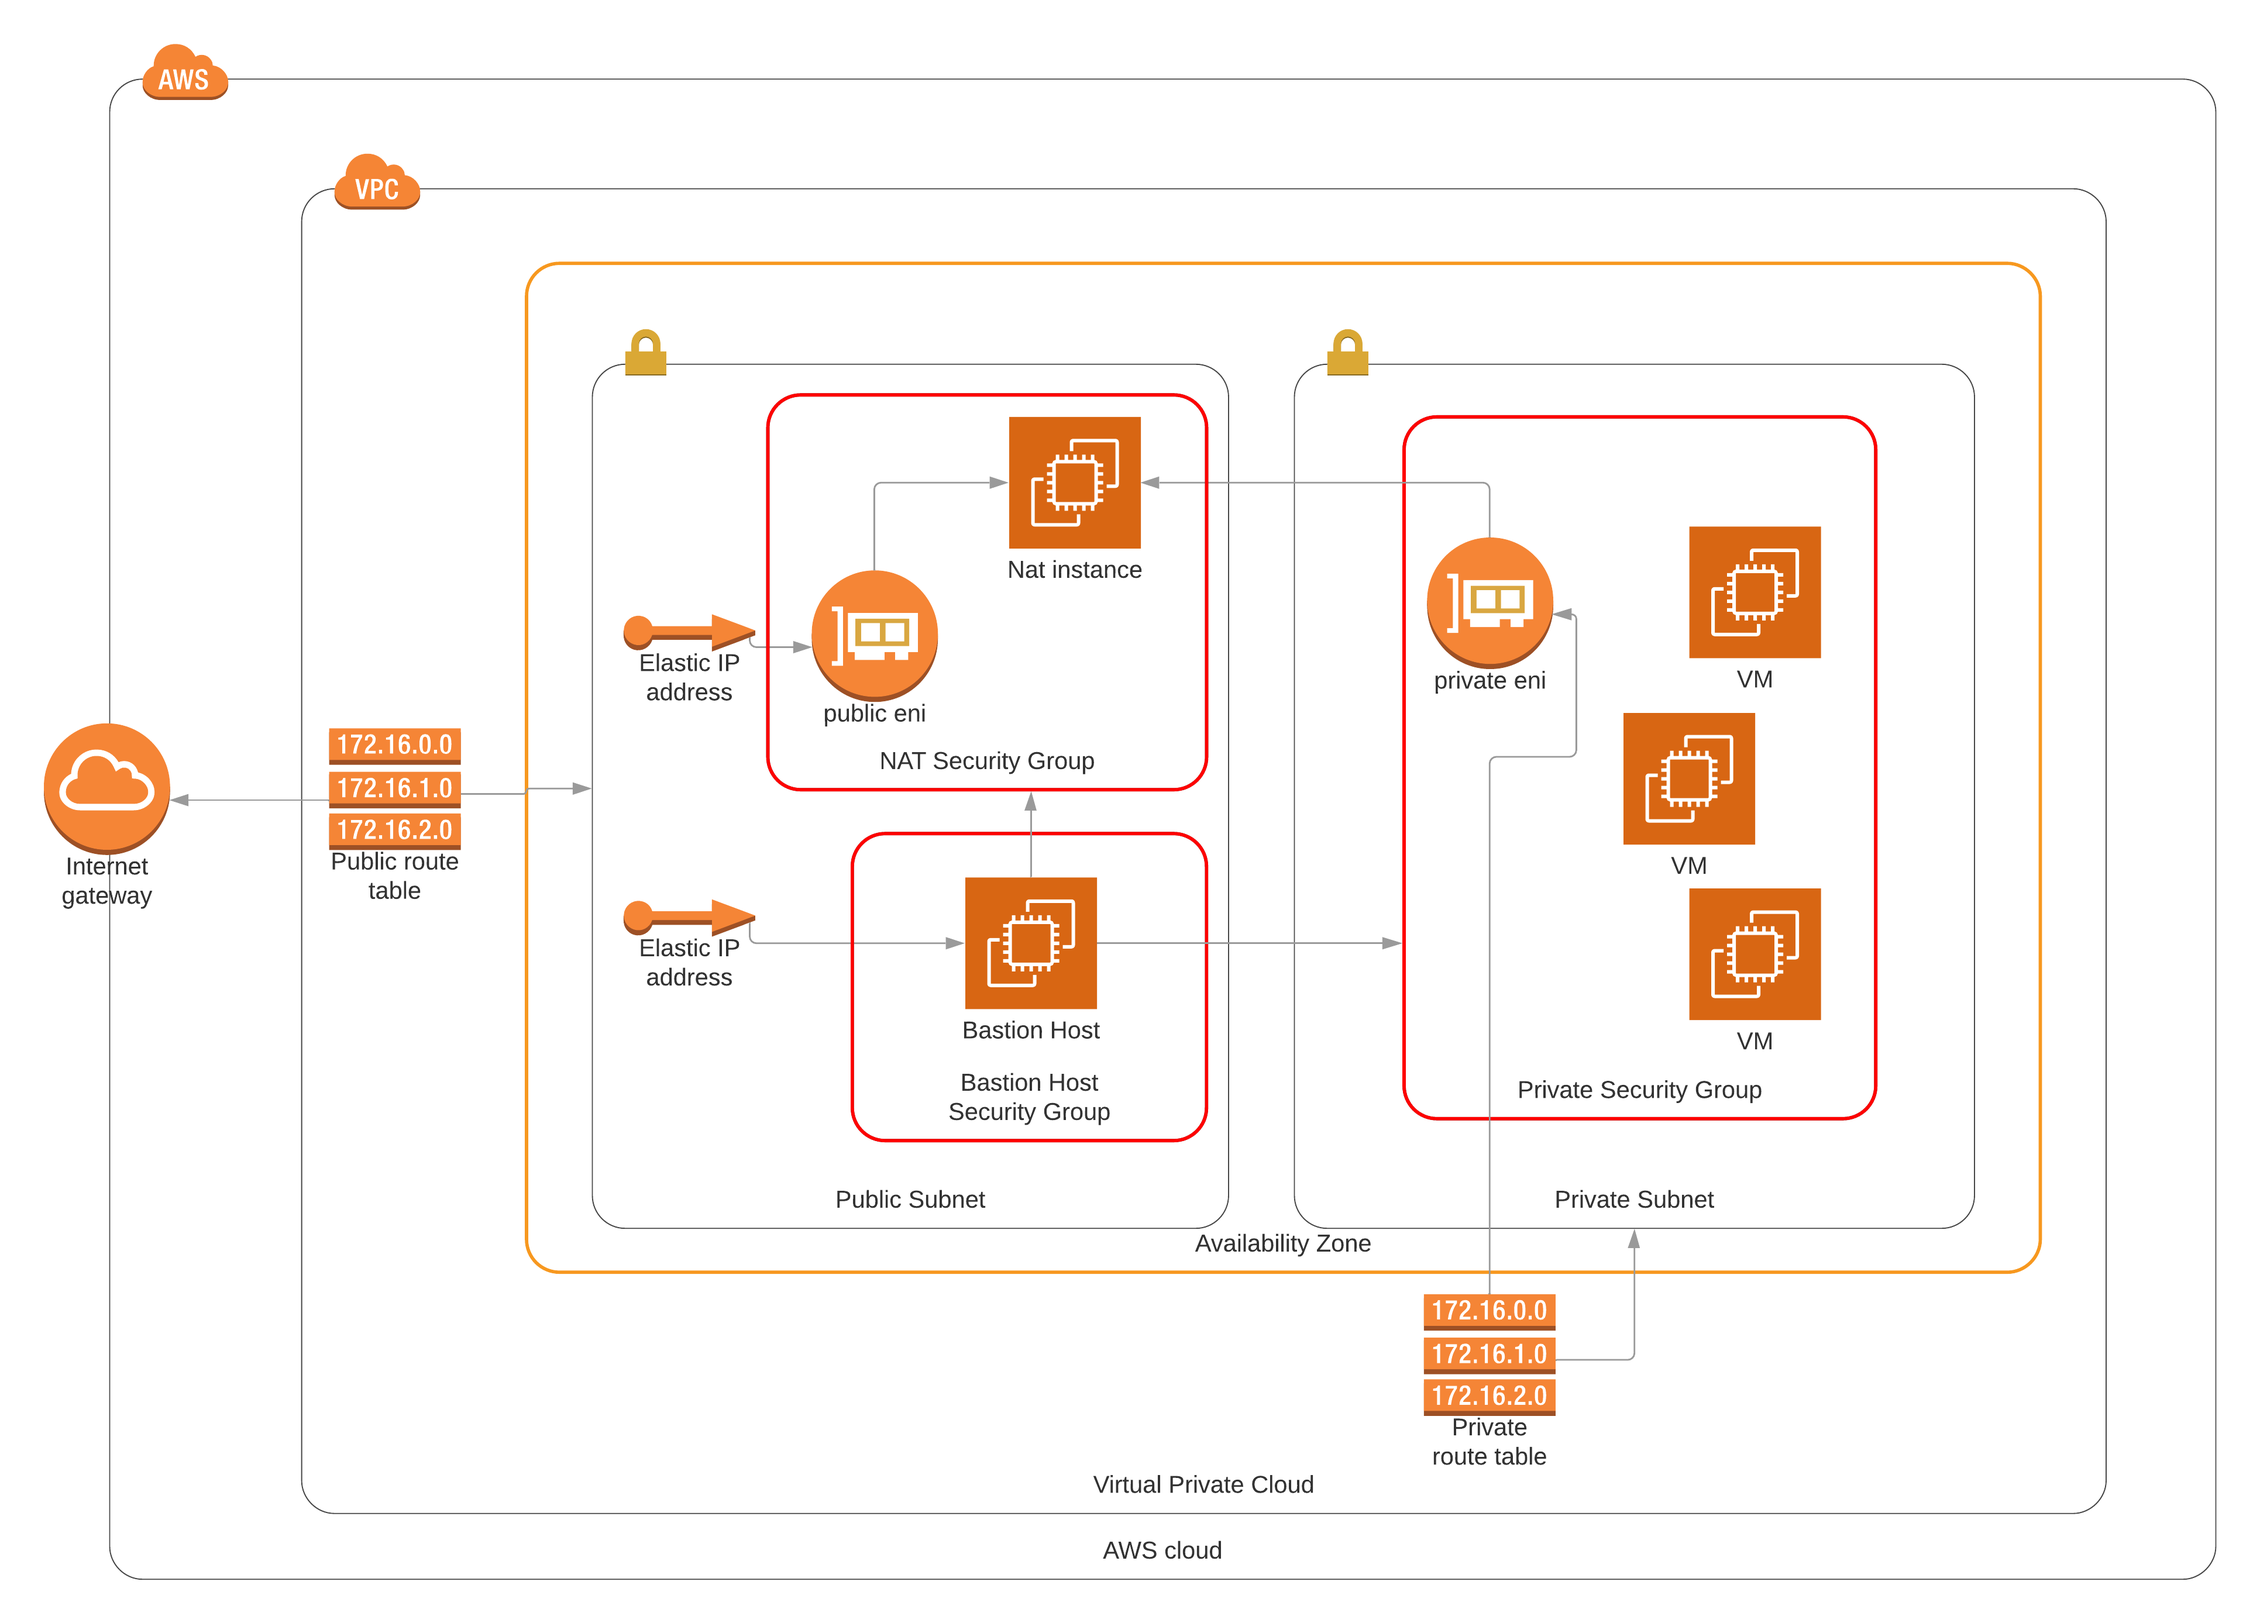
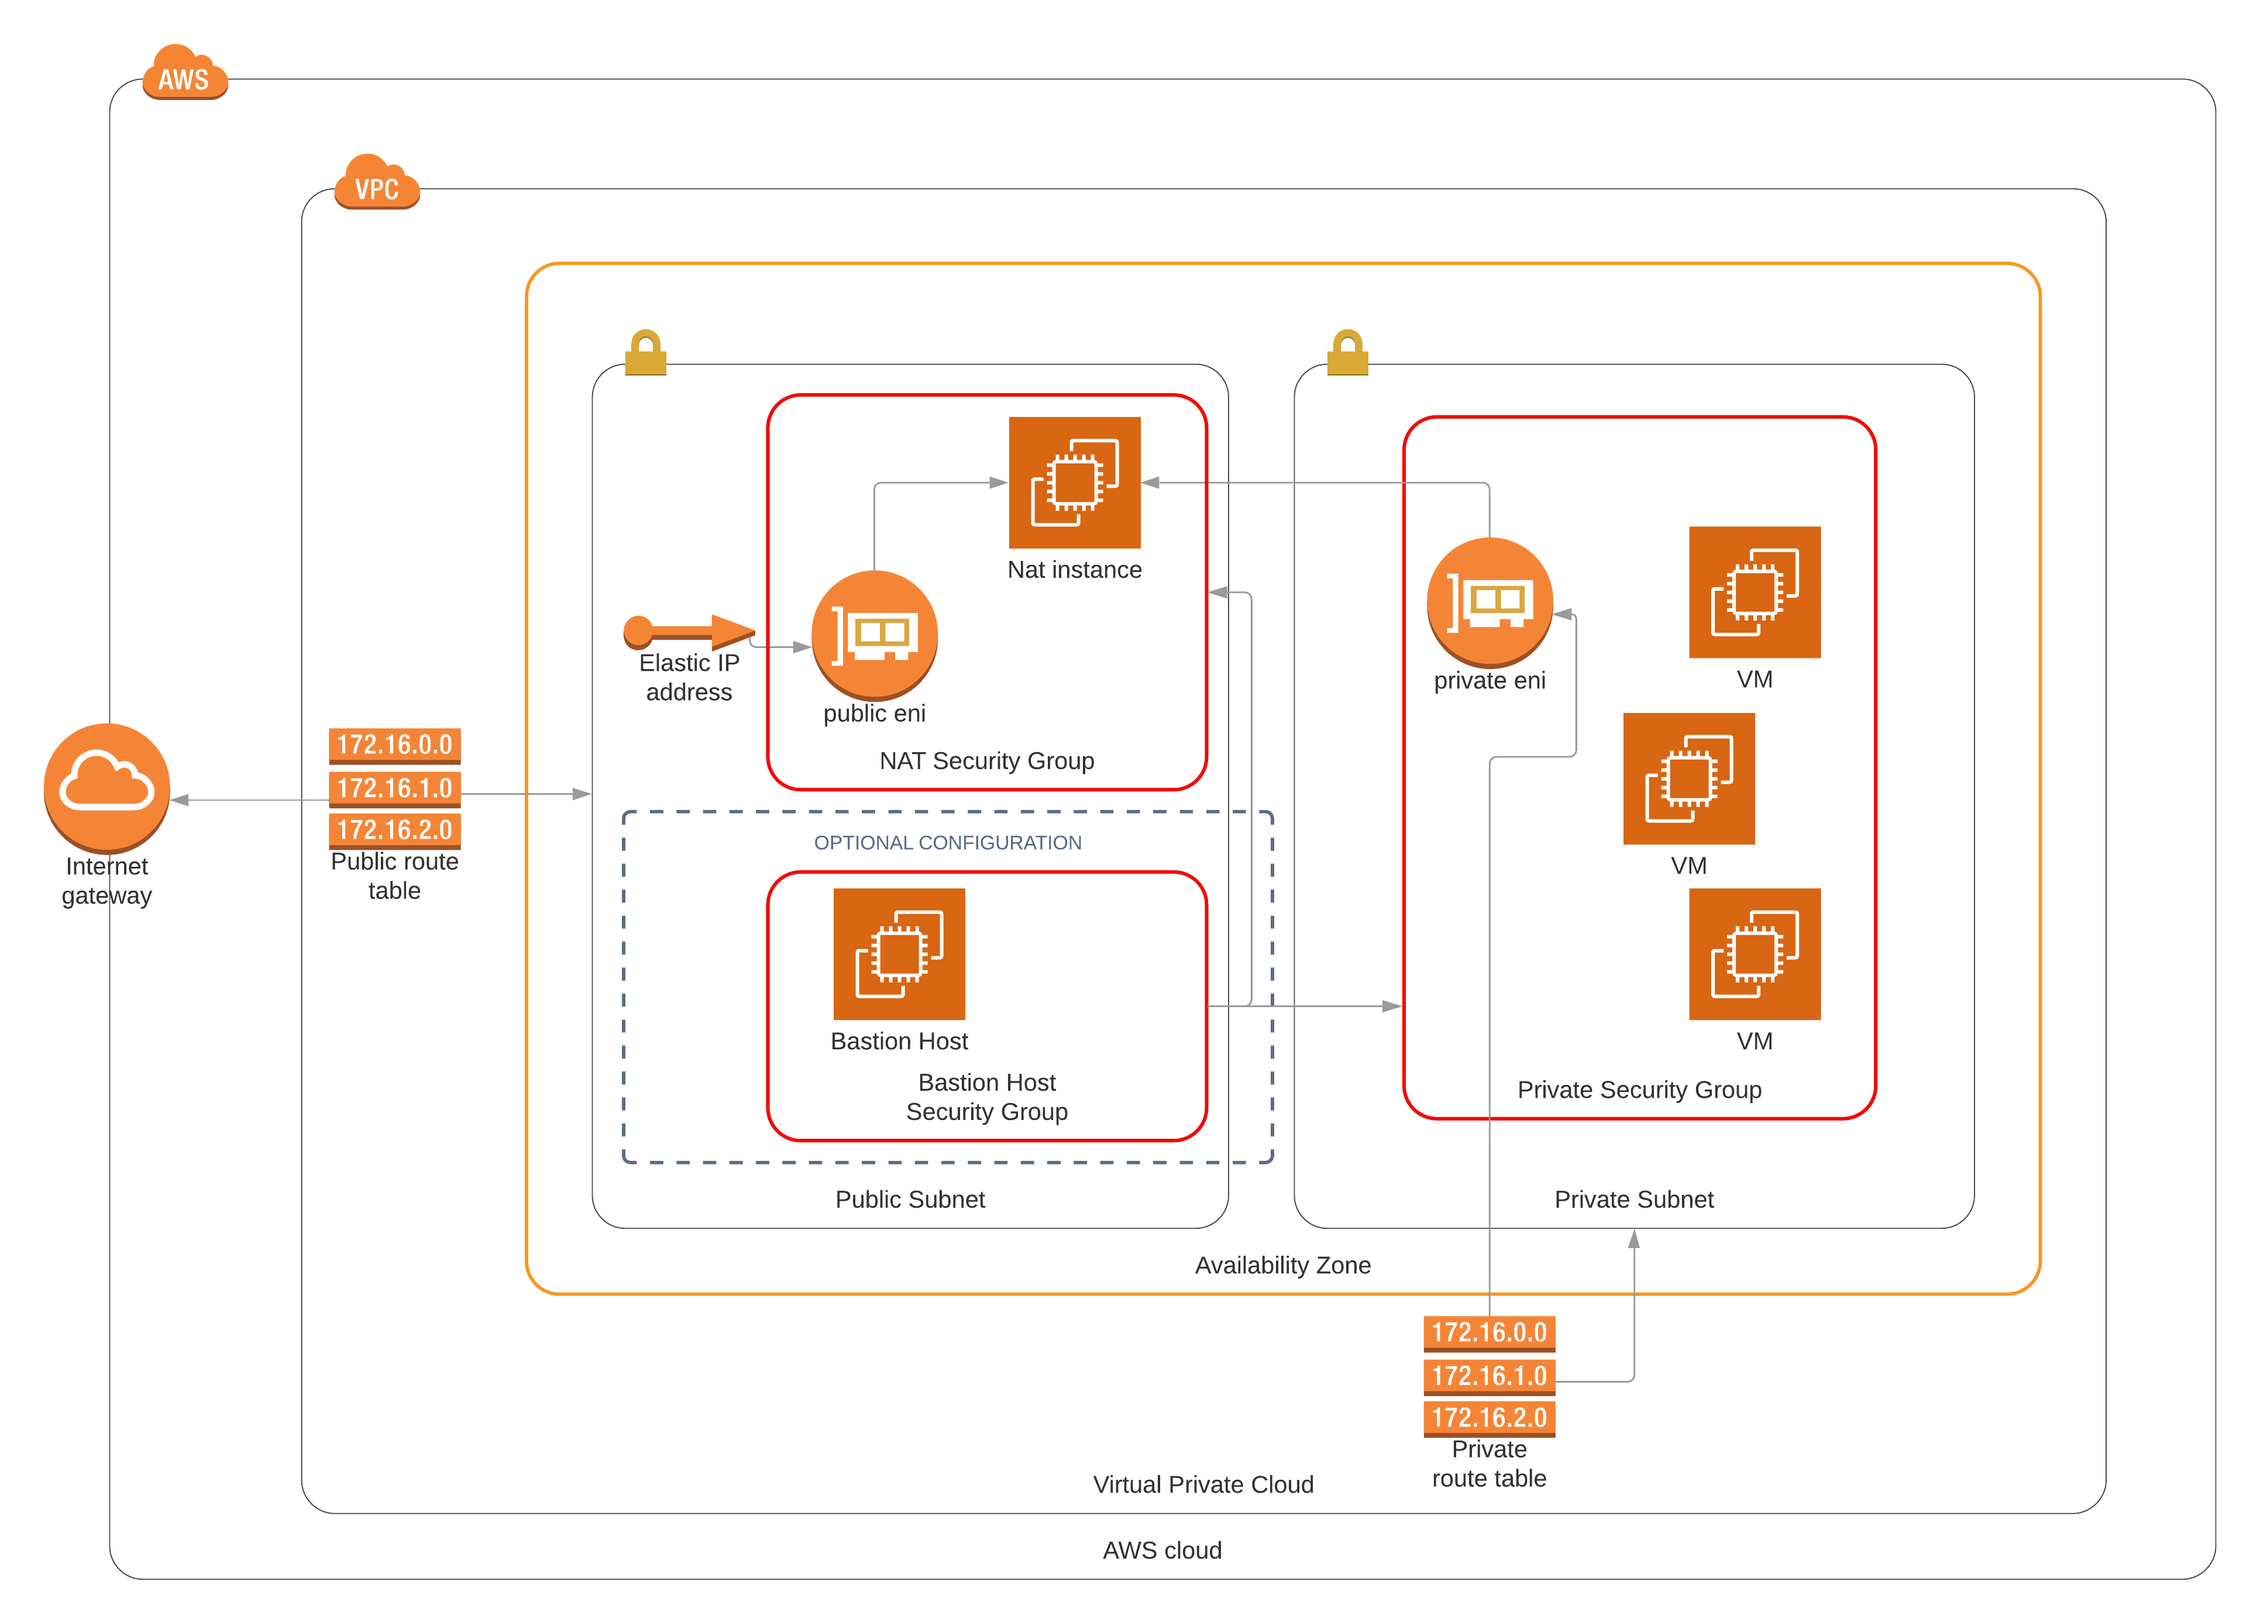
Remove elastic ip for the bastion host (not needed)
Update README

Changed region(s): [[0.2796, 0.4959, 0.5281, 0.7128], [0.2485, 0.7438, 0.9009, 0.9297]]

diff --git a/README.md b/README.md
@@ -9,6 +9,25 @@ The terraform configuration of this project creates an EC2 machine and its requi
 
 ![Created infrastructure](images/end-infrastructure.png)
 
+As a summary this configuration does the following:
+
+* Creates nat security group
+* Creates an internet gateway
+* Creates an elastic network interface (ENI) in the private subnet
+* Creates a public subnet
+* Creates a public route table with a default route to the internet gateway
+* Creates an ENI in the public subnet
+* Adds a rule to redirect the traffic of the private subnet to the private ENI created before
+* Associates the public subnet with the internet gateway in the public route table
+* Creates the EC2 nat instance and provisions it with the user script. Additionally attaches the created ENIs to the intance.
+* Creates an elastic IP and assigns it to the public ENI attached to the nat instance
+
+And additionally, if you deploy the bastion host:
+
+* Creates a security group inside the public subnet for the bastion instance
+* Opens the port 22 in the security groups of the nat instance and the private subnet
+* Deployes the EC2 instance inside the bastion security group with a public IP
+
 ## Required tools and files
 
 ### Make
@@ -47,19 +66,21 @@ You can also modify the variables in the file `variables.tf` to adapt the config
 
 To deploy the infrastructure (assuming that you have a `tfvars` file called `main.tfvars` in the root folder of the project), you only need to execute the command:
 ```
-make deploy-all
+make deploy
 ```
 
 
 ## Deleting the infrastructure
 To avoid incurring in extra costs, when you finish using the infrastructure, remember to delete the created resources with the command:
 ```
-make delete-all
+make destroy
 ```
 
 ## Upgrading the infrastructure
 
-### High-Availability
+### Scalability and High-Availability
+
+The easiest way to escale the nat instance is to vertically scale the machine, which can be easily achieved by changing the `instance_type` variable in the `variables.tf` file.  
 
 This terraform configuration only deploys one nat instance in one availability zone and links it with one private subnet. If you have several private subnets in several availability zones, the recommended strategy to follow is to deploy one nat instance for each availability zone in use, and then make the nat instances to monitor each other. In case one of the instances goes down, the other instances should have the rights to power on and reconfigure a new instance in the availability zone where the machine has failed.
 
@@ -77,11 +98,6 @@ Take into account that you will need other method (like a private vpn) to access
 If you want to redeploy the bastion instance, you only have to execute:
 ```
 make deploy-bastion
-```
-
-If you don't want a bastion host from the beggining, you can create the insfrastructure with the command:
-```
-make deploy-nat
 ```
 
 ### More security !!
